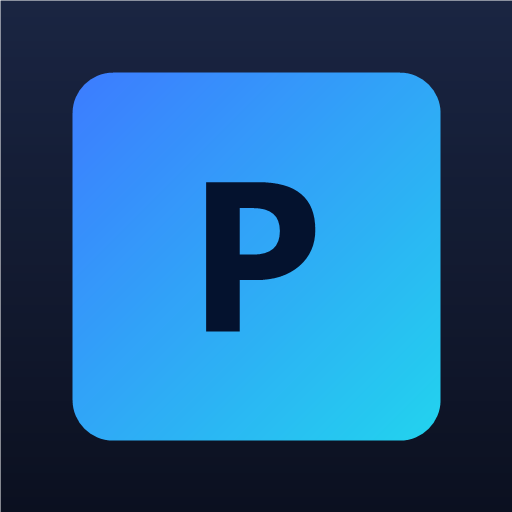
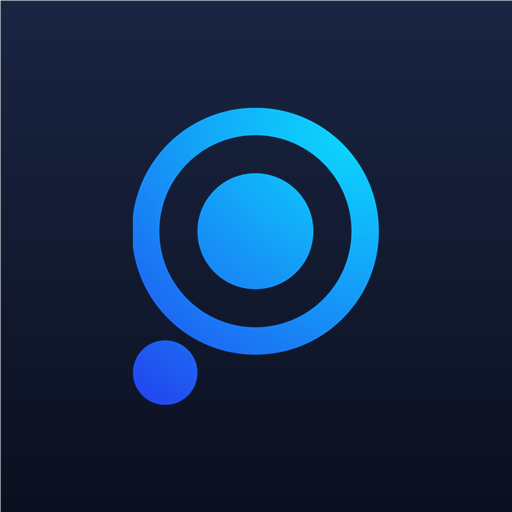
Troca icone do app pelo simbolo ProjeTech (fundo escuro)

diff --git a/sw.js b/sw.js
@@ -1,5 +1,5 @@
 // ProjeTech Calc — service worker (offline cache)
-const CACHE = 'projetech-v7';
+const CACHE = 'projetech-v8';
 const ASSETS = [
   './',
   'index.html',